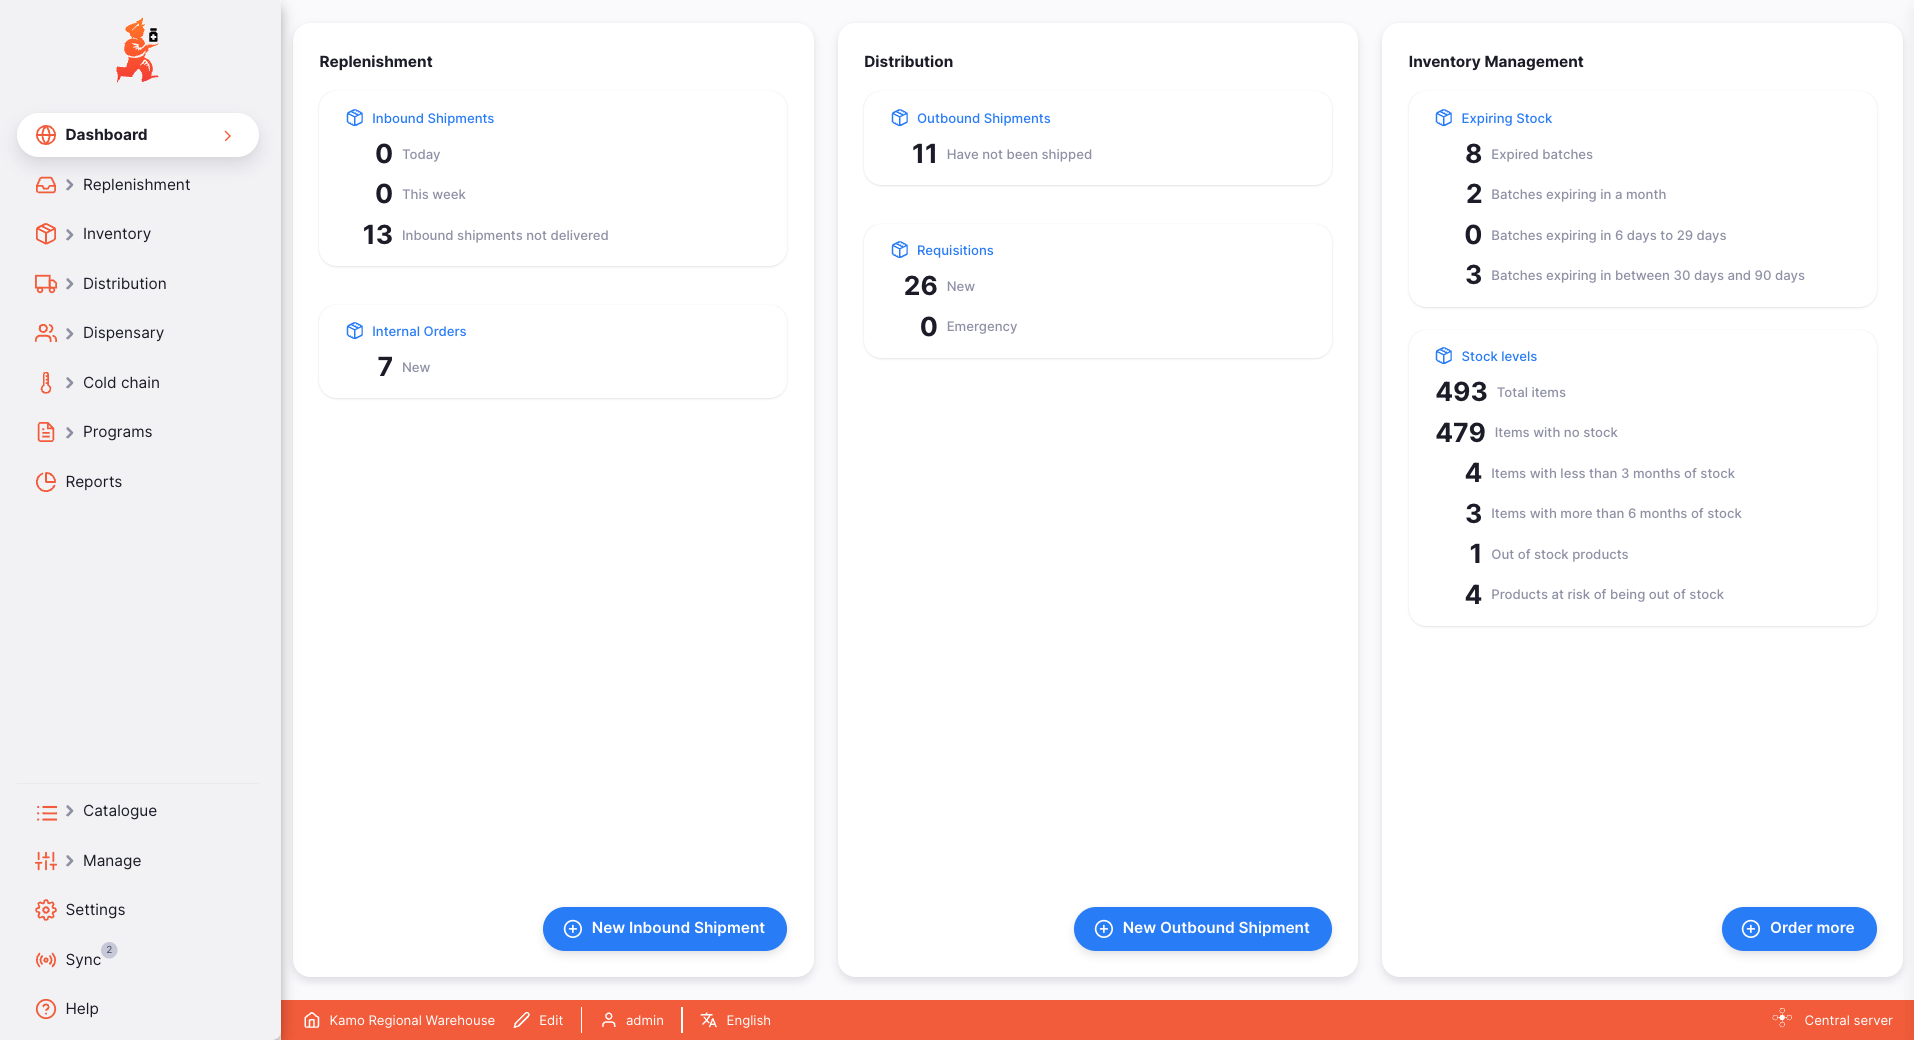
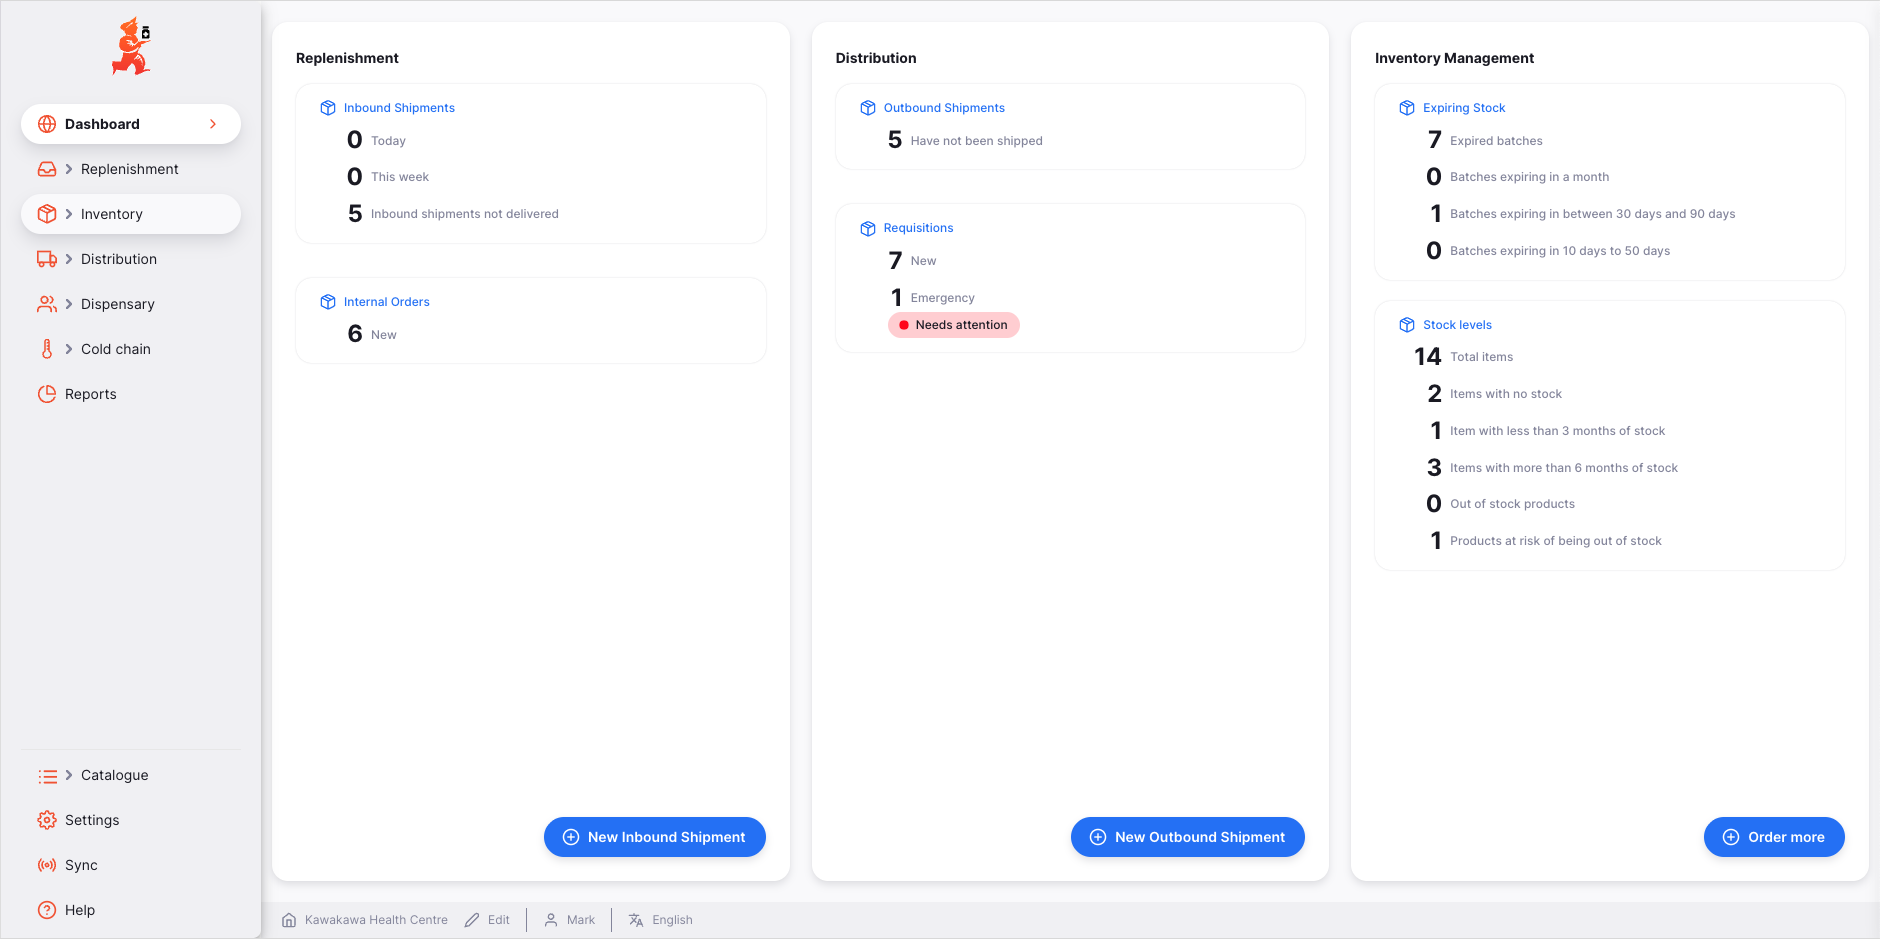
from 7678eedc6c97843144aaba35d41edf924fa2d45b

diff --git a/content/docs/manage/facilities/index.md b/content/docs/manage/facilities/index.md
@@ -61,20 +61,20 @@ Toggle the preferences on or off as required, and close when you are finished.
 
 ### Available Preferences
 
-| Preference Name                                                                       | Description                                                                                                                                                   |
-| :------------------------------------------------------------------------------------ | :------------------------------------------------------------------------------------------------------------------------------------------------------------ |
-| **Manage vaccines in doses**                                                          | View stock levels and transactions for vaccine items in doses, rather than units or packs                                                                     |
-| **Manage VVM status for stock**                                                       | Enables a `VVM status` field on stock                                                                                                                         |
-| **Order in packs**                                                                    | Defaults the Internal Order/Requisition representation to packs instead of units                                                                              |
-| **Use procurement functionality**                                                     | Enables procurement functionality including Purchase Orders and Goods Received                                                                                |
-| **Can create Internal Order from a Requisition**                                      | Allows users to create an Internal Order from a Requisition                                                                                                   |
-| **Select destination store for an Internal Order**                                    | Allows users to select the destination store when creating an Internal Order from a Requisition to change the destination of the supplier's Outbound Shipment |
-| **Sort available batches by VVM status then expiry**                                  | Auto-allocation in Outbound Shipments and Prescriptions uses VVM status first, then FEFO                                                                      |
-| **Use simplified mobile UI**                                                          | Reduces number of fields and elements for tablets. Requires legacy store preference.                                                                          |
-| **Number of months to check for consumption when calculating out of stock products**  | Number of past months to check for item usage. If no stock in this period, item is flagged as at risk or out of stock in the Dashboard.                       |
-| <span style="color:#e05535;font-weight:bold;">Batches expiring in between days</span> |                                                                                                                                                               |
-| **First threshold for expiring items (days)**                                         | Days before expiry to start flagging as "expiring soon." Max 30 days. Used in Expiring Stock widget.                                                          |
-| **Second threshold for expiring items (days)**                                        | Days before expiry to stop flagging as "expiring soon." Max 30 days. Used in Expiring Stock widget.                                                           |
+| Preference Name                                                                      | Description                                                                                                                                                                              |
+| :----------------------------------------------------------------------------------- | :--------------------------------------------------------------------------------------------------------------------------------------------------------------------------------------- |
+| **Manage vaccines in doses**                                                         | View stock levels and transactions for vaccine items in doses, rather than units or packs                                                                                                |
+| **Manage VVM status for stock**                                                      | Enables a `VVM status` field on stock                                                                                                                                                    |
+| **Order in packs**                                                                   | Defaults the Internal Order/Requisition representation to packs instead of units                                                                                                         |
+| **Use procurement functionality**                                                    | Enables procurement functionality including Purchase Orders and Goods Received                                                                                                           |
+| **Can create Internal Order from a Requisition**                                     | Allows users to create an Internal Order from a Requisition                                                                                                                              |
+| **Select destination store for an Internal Order**                                   | Allows users to select the destination store when creating an Internal Order from a Requisition to change the destination of the supplier's Outbound Shipment                            |
+| **Sort available batches by VVM status then expiry**                                 | Auto-allocation in Outbound Shipments and Prescriptions uses VVM status first, then FEFO                                                                                                 |
+| **Use simplified mobile UI**                                                         | Reduces number of fields and elements for tablets. Requires legacy store preference.                                                                                                     |
+| **Number of months to check for consumption when calculating out of stock products** | Number of past months to check for item usage. If no stock in this period, item is flagged as at risk or out of stock in the Dashboard.                                                  |
+| **Batches expiring in between days**                                                 |                                                                                                                                                                                          |
+| • First threshold for expiring items (days)                                          | Days before expiry to start flagging as "expiring soon." Used in the `Expiring Stock` widget. Note that the widget isn't displayed if both of these threshold settings are unconfigured. |
+| • Second threshold for expiring items (days)                                         | Days before expiry to stop flagging as "expiring soon." Used in Expiring Stock widget.                                                                                                   |
 
 <div class='note'>
 Most store preferences are still managed through the Legacy mSupply central server (see the <a href="/docs/settings/configuration/#store-preferences">list of preferences</a>). Only new store preferences for Open mSupply are configured on Open mSupply central server for now. All store preferences will be migrated to Open mSupply in a future version.

diff --git a/content/docs/getting_started/dashboard/index.md b/content/docs/getting_started/dashboard/index.md
@@ -42,28 +42,28 @@ You can see some statistics for shipments and stock:
 
     - **Expired batches**: The number of stock lines in the current store which have expired
     - **Batches expiring in a month**: The number of stock lines in the current store which will expire within the month
-    - **Batches expiring between First and Second threshold**:
-      - Shows the number of stock lines in the current store that will expire between the First and Second threshold days from today.
-      - Thresholds are set as [store preferences](/docs/manage/facilities/#available-preferences).
-      - **Calculation:** Count Stocks where: `Expiry Date >= Today + First threshold` **and** `Expiry Date <= Today + Second threshold`
+    - **Batches expiring between first and second threshold**:
+      - Shows the number of stock lines in the current store that will expire between the first and second threshold days from today
+      - Thresholds are set as [store preferences](/docs/manage/facilities/#available-preferences). Requires either the first or second preference to be set for this statistic to display.
+      - **Calculation:** Count Stocks where: `Expiry Date >= today + first threshold` **and** `Expiry Date <= today + second threshold`
     - **Batches expiring between 30 and 90 days**:
-      - The number of stock lines in the current store with expiry dates between 30 and 90 days from today (inclusive). Requires the [threshold preference](/docs/manage/facilities/#available-preferences) to be set for this statistic to display.
-      - **Calculation:** Count Stocks where: `Expiry Date >= Today + 30 days` **and** `Expiry Date <= Today + 90 days`
+      - The number of stock lines in the current store with expiry dates between 30 and 90 days from today (inclusive)
+      - **Calculation:** Count Stocks where: `Expiry Date >= today + 30 days` **and** `Expiry Date <= today + 90 days`
 
   - Stock levels
+
     - **Total items**: A count of the number of items in this store
     - **Items with no stock**: The item is visible in this store, but have no stock recorded
     - **Items with less than 3 months of stock**: Which is based on the average monthly consumption (AMC) for this item in the current store
     - **Items with more than 6 months of stock**: As above, based on AMC for the item in the current store
     - **Out of stock products**:
-      - Uses the [number of months to check for consumption preference](/docs/manage/facilities/#available-preferences) to define the period for calculating item statistics.
+      - Uses the [Number of months to check for consumption preference](/docs/manage/facilities/#available-preferences) to identify products which have been used recently. Only products that have consumption within the specified number of months are included.
       - **Calculation:** Product is counted if `Stock on Hand = 0` and `Total Consumption > 0` during the selected period.
     - **Products at risk of being out of stock**:
-      - Uses the [number of months to check consumption preference](/docs/manage/facilities/#available-preferences) to identify products at risk of running out within the specified period.
-      - **Calculation:** Product is counted if `(Stock on Hand / Average Monthly Consumption) < Number of months consumption preference`.
-      - **Stock on Hand** and **Average Monthly Consumption (AMC)** are taken from the product's item statistics for the selected period.
+      - Uses the [Number of months threshold to show low stock alerts for products](/docs/manage/facilities/#available-preferences) to determine the threshold for this statistic
+      - **Calculation:** Product is counted if `Months of stock < Number of months threshold to show low stock alerts for products preference`.
 
-There are buttons towards the bottom of the page as well which allow you to create shipments and requisitions.
+  - There are buttons towards the bottom of the page as well which allow you to create shipments and requisitions.
 
 Clicking on the headings (e.g. `Inbound Shipments`, `Shipments` etc) will take you to the list of those items.
 In addition, clicking on the text beside an item (e.g. `Have not been shipped`) will take you to a view which gives you a list which is filtered to show all the records which match the condition listed. The exception to this is the statistics shown under `Stock levels` which currently do not have filters available.

diff --git a/content/docs/settings/configuration/index.md b/content/docs/settings/configuration/index.md
@@ -55,7 +55,8 @@ GAPS configuration is a one way process that cannot be undone! Please be sure yo
 
 #### Supply Level Property
 
-These properties define each store’s role in the supply chain (e.g. central, regional, facility, etc...). Set during configuration, they help categorise stores for inventory and distribution.
+The supply level property can be assigned to a store to identify that store's position within the supply chain hierarchy (e.g. central, regional, facility, etc...).
+On this page you are able to define the number and name of the levels which are available.
 
 To configure supply levels, click the edit button:
 
@@ -65,15 +66,19 @@ This opens a window where you can manage supply levels. If a supply level is alr
 
 ![Supply Level: Modal](images/supply_level_configuration.png)
 
-To assign a supply level to a store, click the edit button in the app footer:
+To assign a supply level to a store either:
 
-![Store properties edit](images/store_properties_edit_footer.png)
+- Navigate to <a href="/docs/manage/facilities/">Manage > Stores</a> and edit a store
+- If on the central server, click the edit button in the app footer
 
 Then, select the appropriate supply level from the dropdown:
 
 ![Supply Level: Store Properties](images/supply_level_store_properties.png)
 
 Click the Ok button to save your changes.
+If you do not have the Supply level property available, editing the properties (step 1 above) will create the required property. Remember to sync your remote site after editing!
+
+<div class="tip">If you are using the Congo plugin then the selected supply level will be synchronised with the store's category 5 property</div>
 
 ## Store preferences
 

diff --git a/content/docs/distribution/requisitions/index.md b/content/docs/distribution/requisitions/index.md
@@ -263,13 +263,13 @@ The key difference when entering a manual requisition on behalf of a customer is
 1. If your store has the [Can create Internal Order from a
    Requisition](/docs/manage/facilities/#available-preferences) preference enabled,
    you can create an Internal Order directly from a Requisition by clicking on the
-   `Create Order` button at the top right of the Requisition list view.
+   `Create Order` button at the top right of the Requisition list view
 
 ![alt text](images/create_order_button.png)
 
-2. You will be prompted to select a supplier to send the Internal Order to.
+2. You will be prompted to select a supplier to send the Internal Order to
 3. Once selected, a list of unfulfilled requisitions (i.e. where supply does not
-   equal to requested) will be displayed for you to choose from.
+   equal to requested) will be displayed for you to choose from
 
 ![Select requisition to create from](images/select-requisition-for-internal-order-gen.png)
 
